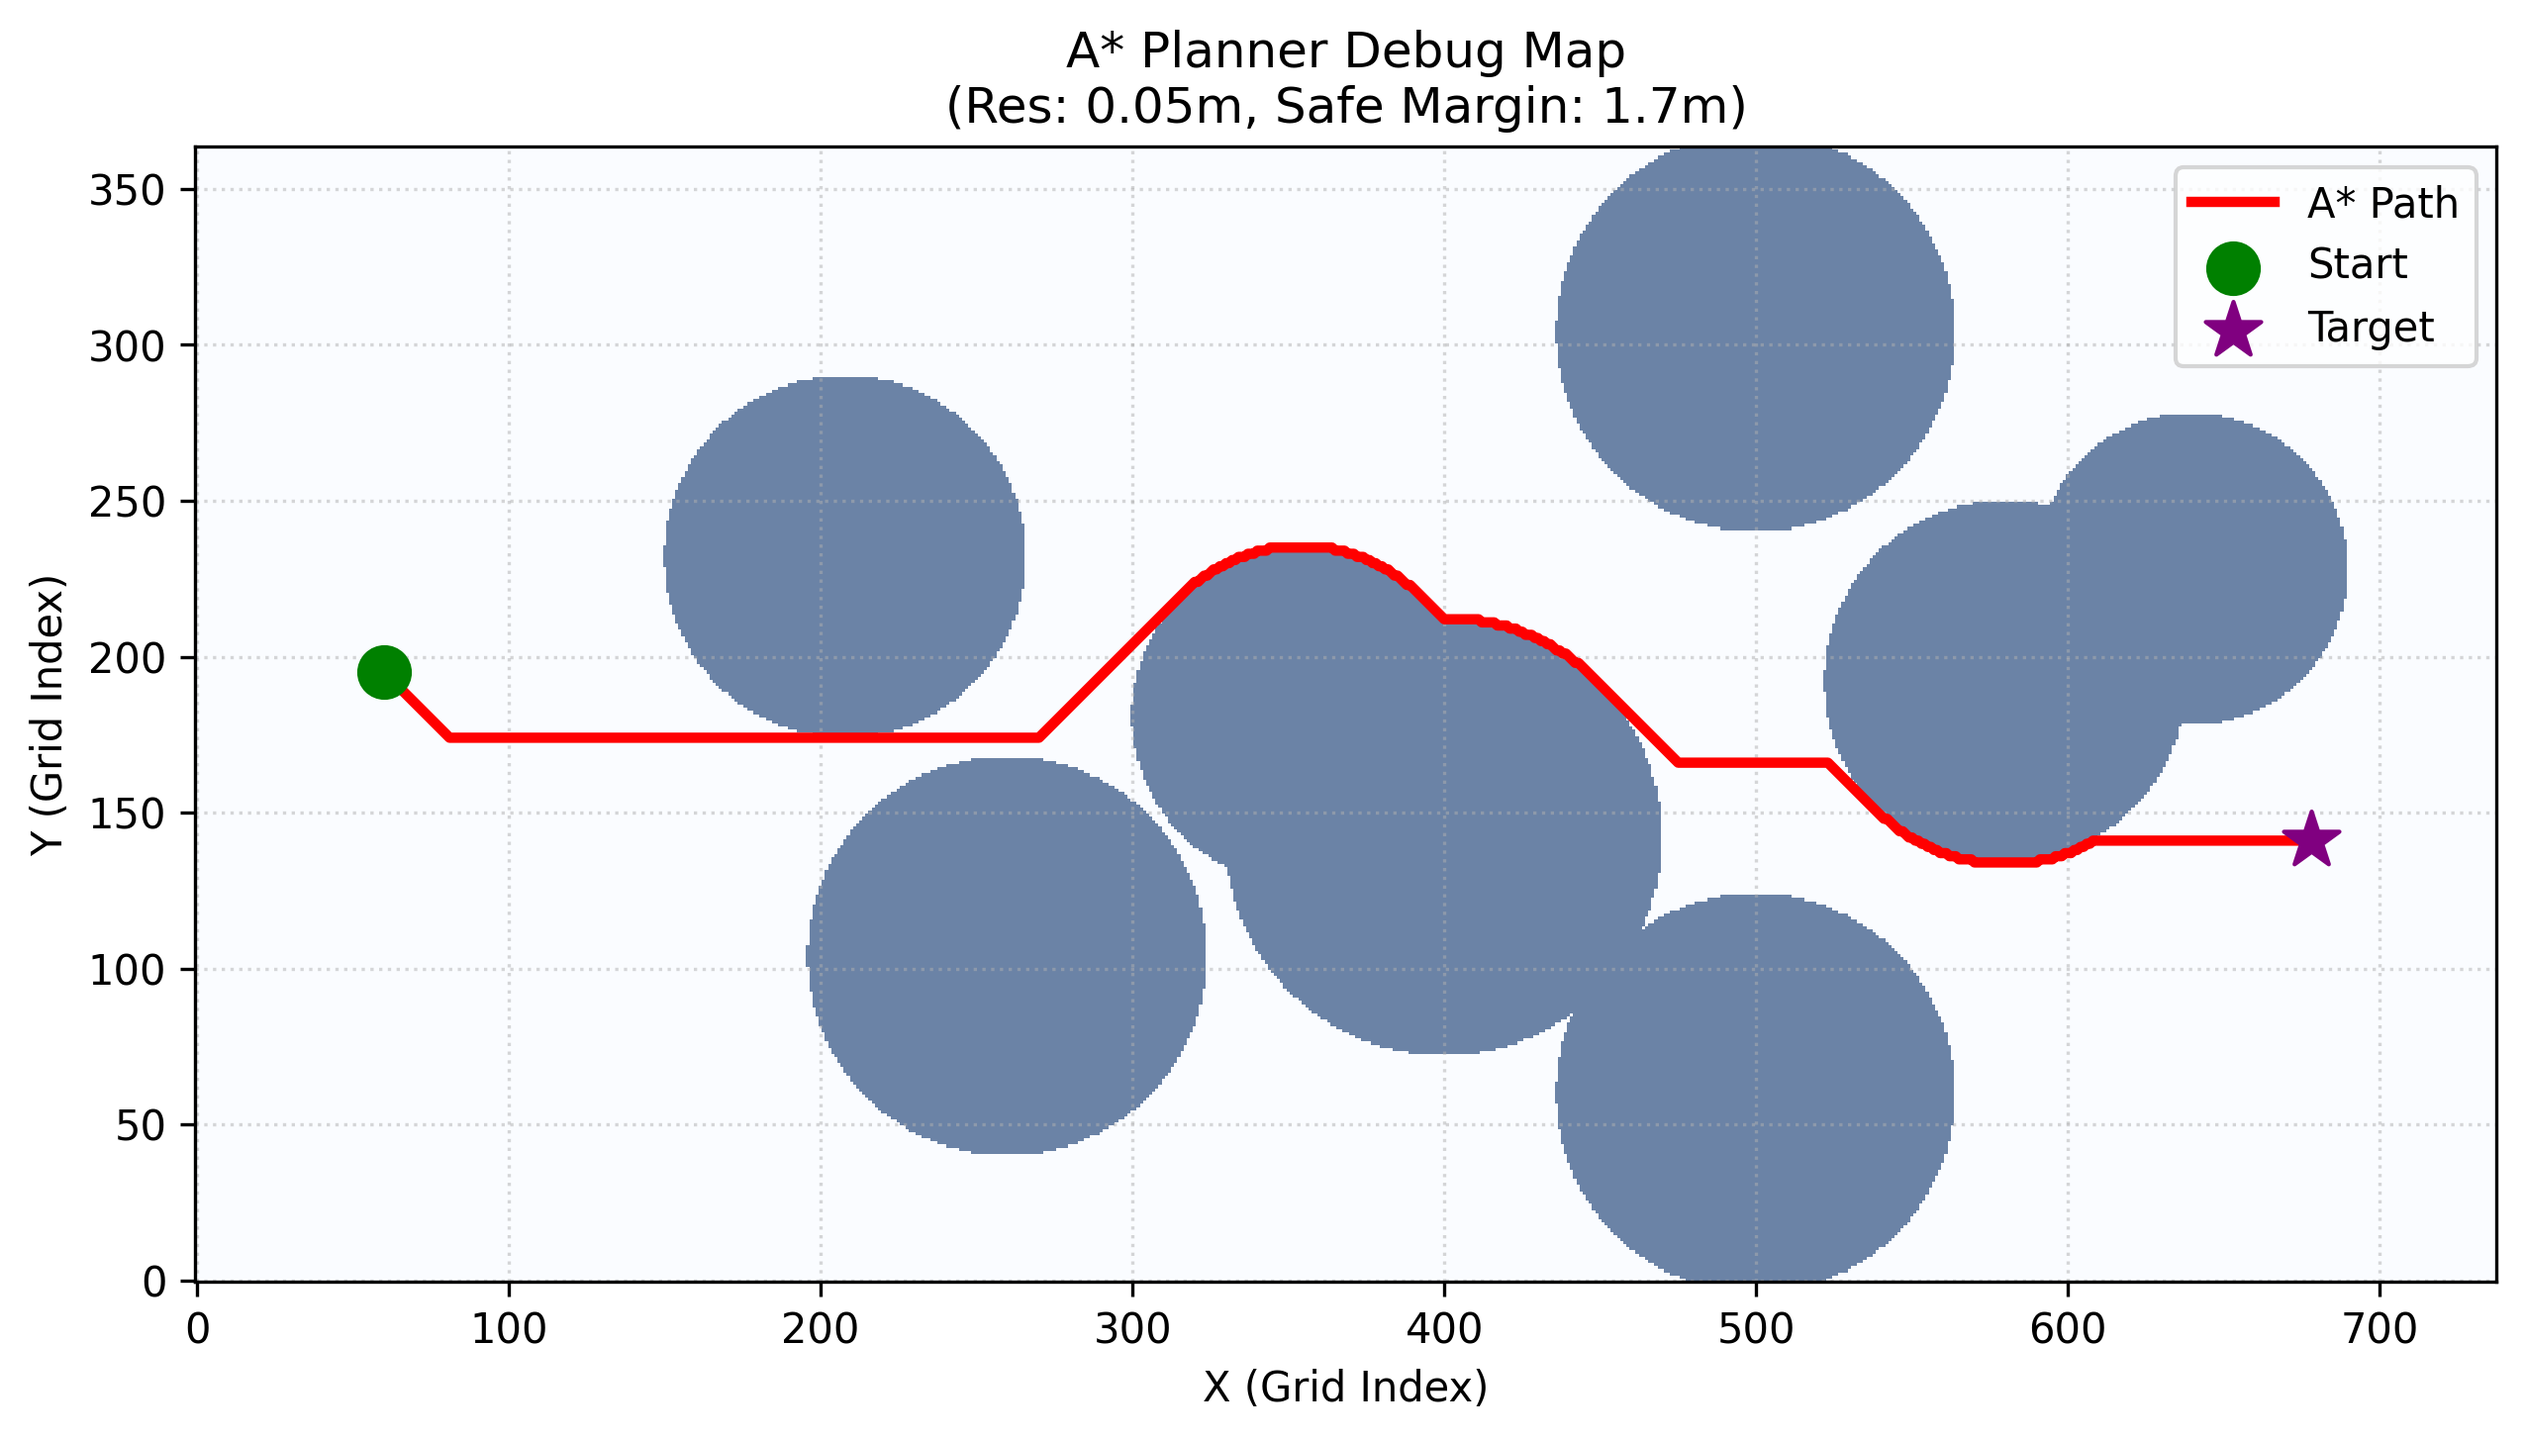
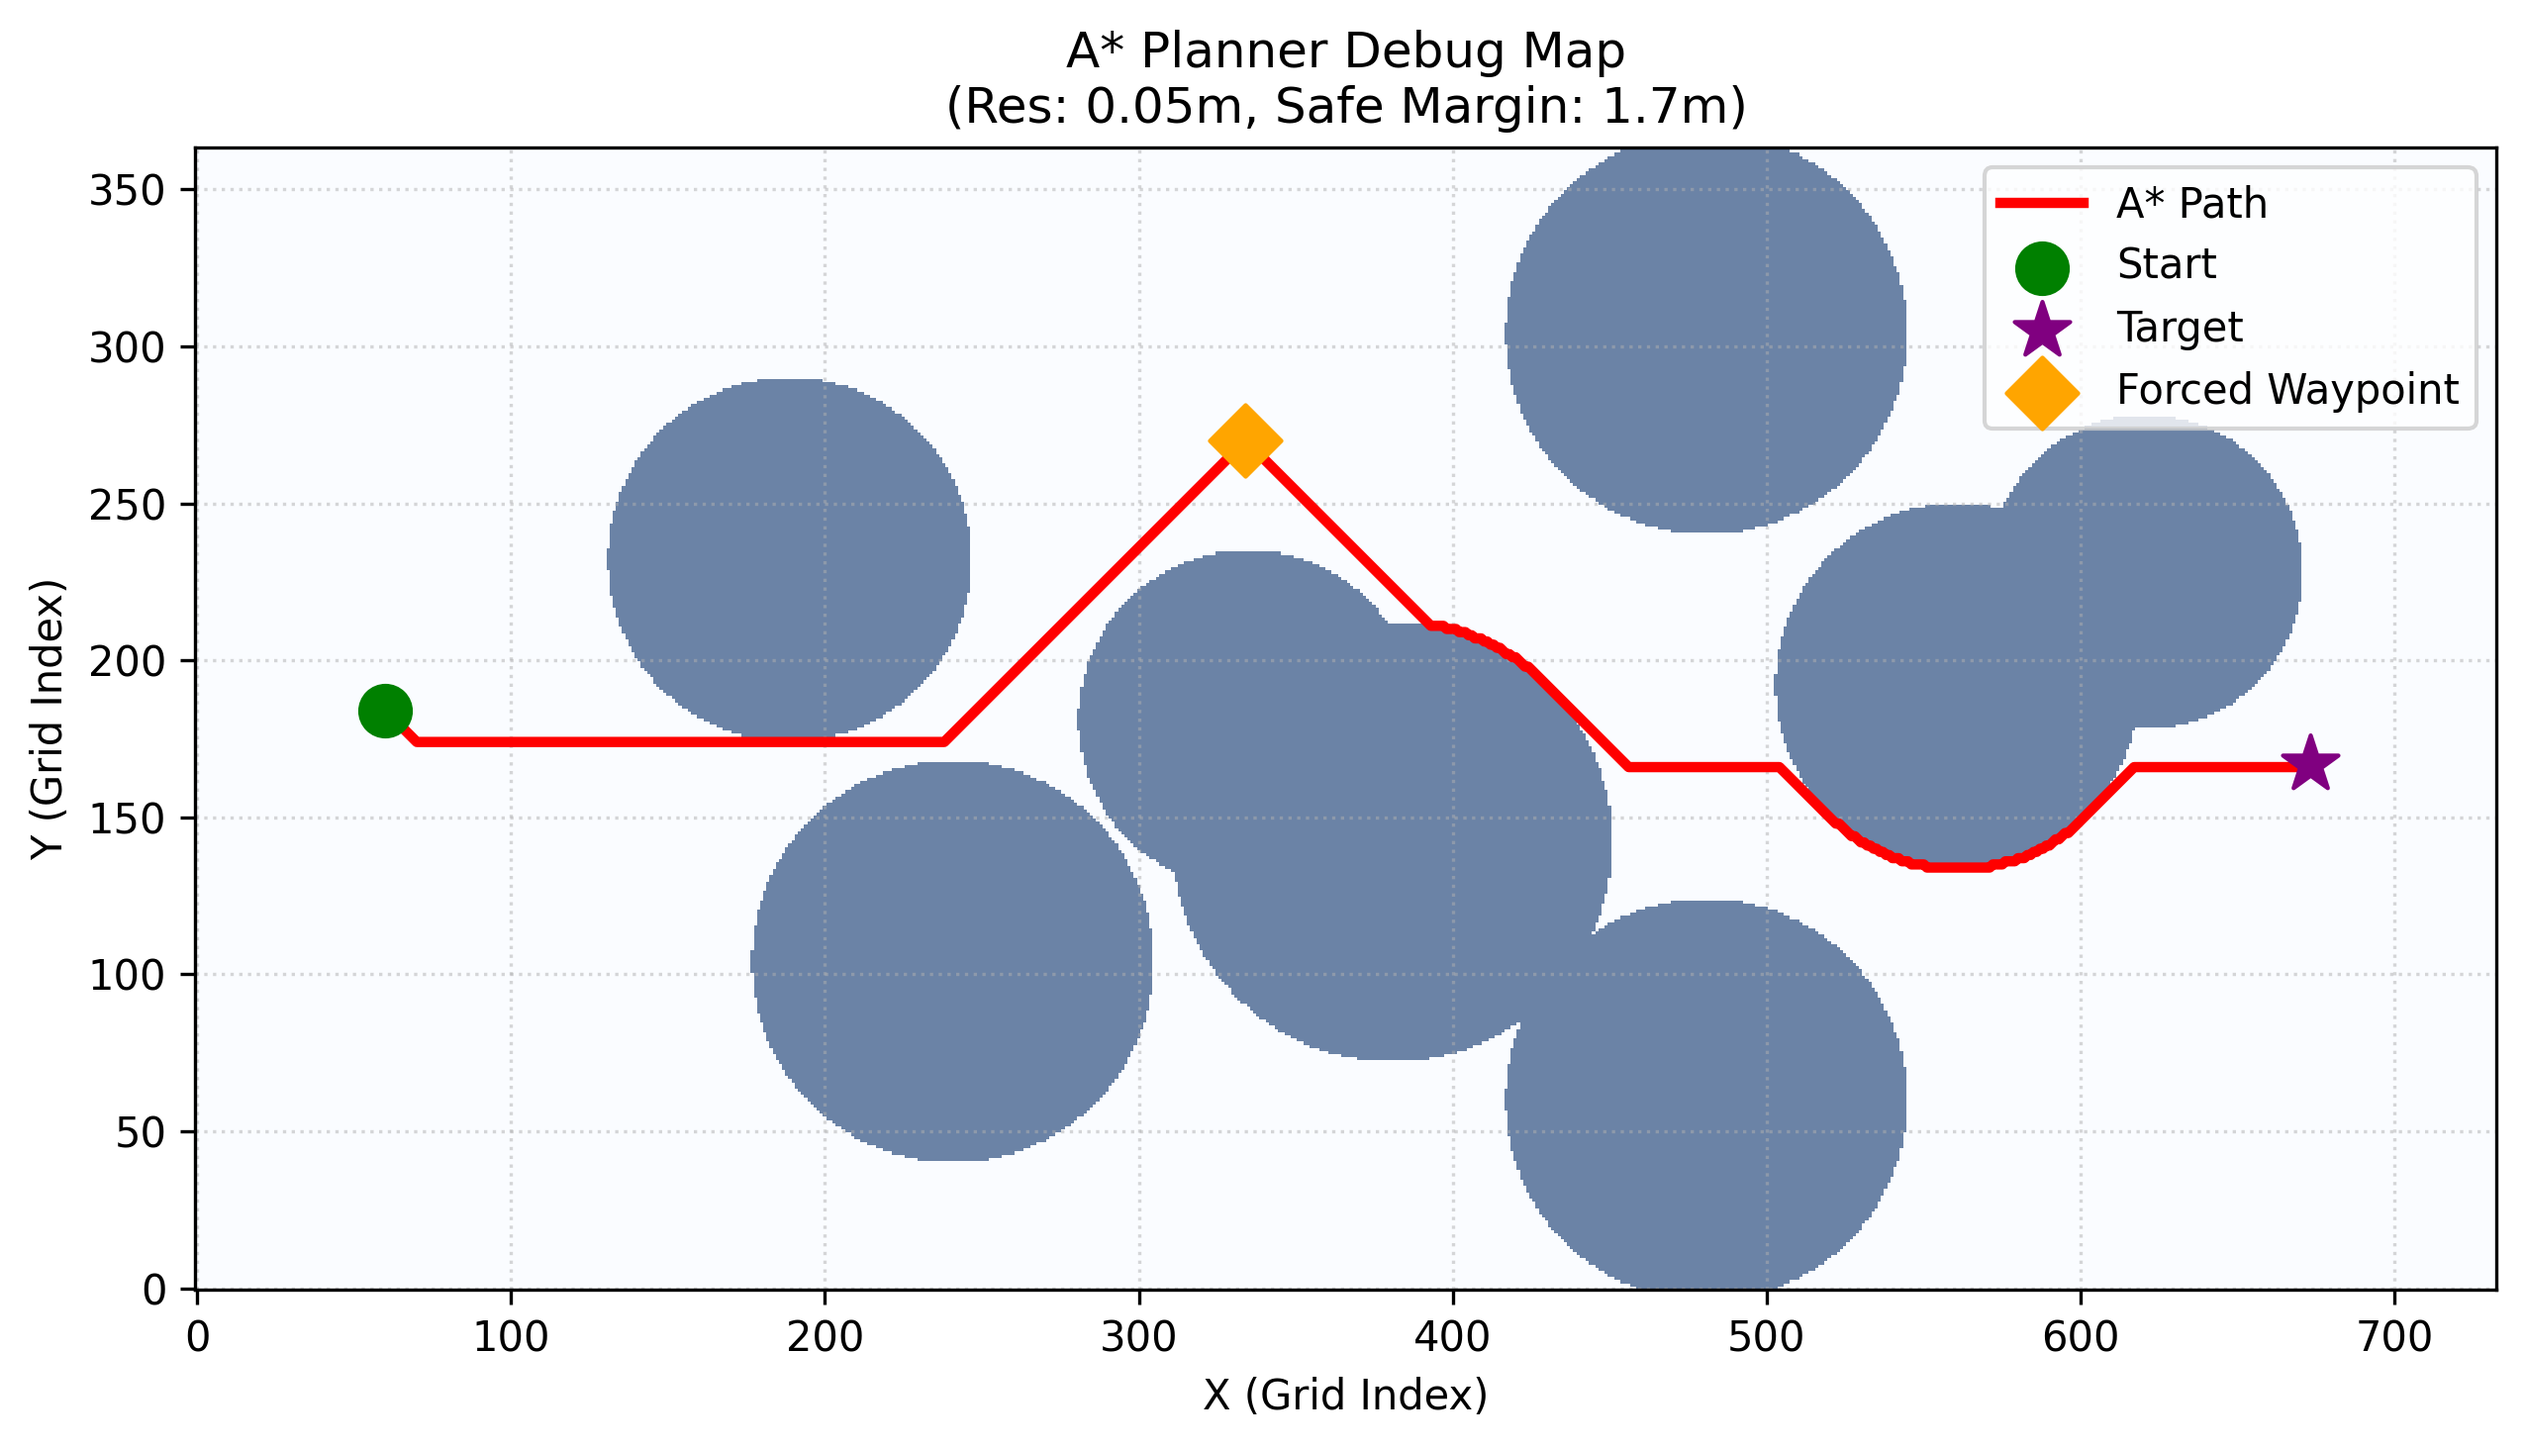
change trajectory through reorganize astar rather than RL method

diff --git a/mujoco_sim/src/utils/astar_planner.py b/mujoco_sim/src/utils/astar_planner.py
@@ -15,13 +15,17 @@ class AStarPlanner:
         self.print_count = 0  # [核心新增] 控制打印频率，防止刷屏
         
     def plan(self, start_pos, target_pos, obstacles):
-        # 1. 自适应确定地图边界 
-        all_x =[start_pos[0], target_pos[0]] + [obs['pos'][0] for obs in obstacles]
-        all_y = [start_pos[1], target_pos[1]] + [obs['pos'][1] for obs in obstacles] # [修复] 提取所有Y坐标
+        # =======================================================
+        # [核心新增] 定义必须经过的强制途经点 (Forced Waypoint)
+        # =======================================================
+        forced_pt = np.array([1.7, 5.2])
+        
+        # 1. 自适应确定地图边界 (将强制点也纳入边界计算，防止地图切得太小)
+        all_x = [start_pos[0], target_pos[0], forced_pt[0]] + [obs['pos'][0] for obs in obstacles]
+        all_y = [start_pos[1], target_pos[1], forced_pt[1]] + [obs['pos'][1] for obs in obstacles] 
         
         min_x, max_x = min(all_x) - 3.0, max(all_x) + 3.0
         
-        # [修复] 动态推导Y轴，但维持至少宽度为 16 的走廊
         center_y = (start_pos[1] + target_pos[1]) / 2.0
         min_y = min(min(all_y) - 3.0, center_y - 8.0) 
         max_y = max(max(all_y) + 3.0, center_y + 8.0)
@@ -48,23 +52,36 @@ class AStarPlanner:
                     if np.linalg.norm([gx - ox, gy - oy]) <= r:
                         grid[ix, iy] = 1
                         
-        # 3. 运行 2D A* 搜索
-        start_idx = (int((start_pos[0] - min_x)/self.res), int((start_pos[1] - min_y)/self.res))
-        goal_idx = (int((target_pos[0] - min_x)/self.res), int((target_pos[1] - min_y)/self.res))
-        
-        start_idx = (np.clip(start_idx[0], 0, width-1), np.clip(start_idx[1], 0, height-1))
-        goal_idx = (np.clip(goal_idx[0], 0, width-1), np.clip(goal_idx[1], 0, height-1))
+        # 3. 运行 2D A* 搜索 (分两段式搜索)
+        def get_grid_idx(pos_x, pos_y):
+            ix = int((pos_x - min_x) / self.res)
+            iy = int((pos_y - min_y) / self.res)
+            return (np.clip(ix, 0, width-1), np.clip(iy, 0, height-1))
+            
+        start_idx = get_grid_idx(start_pos[0], start_pos[1])
+        mid_idx   = get_grid_idx(forced_pt[0], forced_pt[1])
+        goal_idx  = get_grid_idx(target_pos[0], target_pos[1])
 
-        path_idx = self._astar_search(grid, start_idx, goal_idx, min_y)
+        # [安全保障] 强行把强制点所在的栅格挖空，防止 safe_margin 膨胀误杀导致无解
+        grid[mid_idx[0], mid_idx[1]] = 0 
         
-        if not path_idx:
+        # =======================================================
+        # [核心新增] 分段规划：起 -> 强制点 -> 终点
+        # =======================================================
+        path1_idx = self._astar_search(grid, start_idx, mid_idx, min_y)
+        path2_idx = self._astar_search(grid, mid_idx, goal_idx, min_y)
+        
+        if not path1_idx or not path2_idx:
             if self.print_count < 1:
-                print("🚨[A* Planner] 警告: 未找到路径！可能 safe_margin 过大。返回直线！")
-            return[start_pos, target_pos]
+                print("🚨[A* Planner] 警告: 未找到路径！可能 safe_margin 过大或强制点被完全堵死。返回直线！")
+            return [start_pos, target_pos]
+            
+        # 拼接路径 (去掉 path1 的最后一个点，防止中间点重复)
+        path_idx = path1_idx[:-1] + path2_idx
             
         # 4. 终端可视化 Debug (只打印1次)
         if self.debug and self.print_count < 1:
-            self._print_debug_map(grid, path_idx)
+            self._print_debug_map(grid, path_idx, mid_idx=mid_idx)
             self.print_count += 1 
             
         # 5. 获取 2D 原始路径点
@@ -152,15 +169,13 @@ class AStarPlanner:
         smoothed.append(path[-1])
         return smoothed
 
-    def _print_debug_map(self, grid, path_idx):
+    def _print_debug_map(self, grid, path_idx, mid_idx=None):
         print("\n" + "="*50)
-        print("📸 正在生成 A* 规划高清调试图...")
+        print("📸 正在生成 A* 规划高清调试图 (含强制途经点)...")
         
         plt.figure(figsize=(10, 10))
         
         # 1. 绘制地图背景 
-        # grid 维度是 (X, Y)，imshow 需要 (Y, X)，所以必须转置 (grid.T)
-        # origin='lower' 确保原点在左下角，符合现实世界的物理坐标感
         plt.imshow(grid.T, cmap='Blues', origin='lower', alpha=0.6)
         
         # 2. 提取路径坐标并绘制
@@ -174,6 +189,10 @@ class AStarPlanner:
             # 绘制起点和终点
             plt.scatter(path_x[0], path_y[0], color='green', s=150, zorder=5, label='Start')
             plt.scatter(path_x[-1], path_y[-1], color='purple', s=200, marker='*', zorder=5, label='Target')
+            
+            # [新增] 绘制强制途经点
+            if mid_idx is not None:
+                plt.scatter(mid_idx[0], mid_idx[1], color='orange', s=150, marker='D', zorder=6, label='Forced Waypoint')
             
         plt.title(f"A* Planner Debug Map\n(Res: {self.res}m, Safe Margin: {self.safe_margin}m)")
         plt.xlabel("X (Grid Index)")

diff --git a/mujoco_sim/src/core/scene_builder.py b/mujoco_sim/src/core/scene_builder.py
@@ -89,7 +89,8 @@ class SceneBuilder:
         # 定义 8 个障碍物的绝对坐标 [x, y] 和 半径 radius
         fixed_obstacles = [
             {"pos": [-5.6,  3.3], "radius": 1.2},  
-            {"pos": [-3.0, -3.1], "radius": 1.5},  
+            {"pos": [-3.0, -3.1], "radius": 1.5}, 
+            
             {"pos":[ 1.7,  0.75], "radius": 1.0},  
             {"pos": [ 4.0, -1.2], "radius": 1.8},  
             {"pos":[ 9.0,  6.9], "radius": 1.5},  
